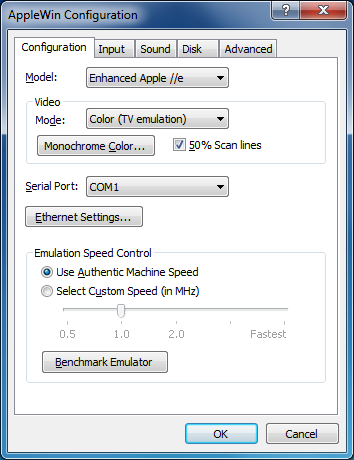
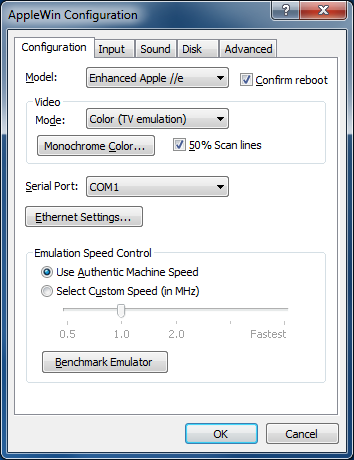
Update help html files for 1.25 release

Changed region(s): [[0.0, 0.2739, 1.0, 1.0], [0.6836, 0.1522, 0.9322, 0.1826]]

diff --git a/help/contact.html b/help/contact.html
@@ -11,21 +11,10 @@
 			<hr SIZE="4">
 		<P></P>
 		<P><br>
-			To contact the&nbsp;project administrators, email:<br>
-			<A href="mailto:tomch@users.berlios.de">Tom Charlesworth</A><br>
-			<A href="mailto:mpohoreski@users.berlios.de">Michael&nbsp;Pohoreski</A><br>
-			<A href="mailto:nick_westgate@users.berlios.de">Nick&nbsp;Westgate</A></P>
+			To contact the project administrators, post a question to the GitHub link below.<br>
 		<br>
-		<P>Bug reports should be submitted here:<br>
-			<A href="https://developer.berlios.de/bugs/?func=addbug&amp;group_id=6117">https://developer.berlios.de/bugs/?func=addbug&amp;group_id=6117</A>
+		<P>Bug reports / feature requests should be submitted here:<br>
+			<A href="https://github.com/AppleWin/AppleWin/issues/new">https://github.com/AppleWin/AppleWin/issues/new</A>
 		</P>
-		<P>Feature requests should be submitted here:<br>
-			<A href="https://developer.berlios.de/feature/?func=addfeature&amp;group_id=6117">https://developer.berlios.de/feature/?func=addfeature&amp;group_id=6117</A>
-		</P>
-		<P>
-			<br>
-			To contact the author of this help file, email:
-			<br>
-			<a href="mailto:brian_broker@yahoo.com">Brian Broker</a></P>
 	</body>
 </html>

diff --git a/help/keyboard.html b/help/keyboard.html
@@ -60,12 +60,14 @@
 			files are named "{DiskFilename}_#.bmp" otherwise they are named "AppleWin_ScreenShot_#.bmp".</p>
 		<p><span style="font-weight: bold;">Shift+PrintScrn:</span><br>
 		    See above.</p>
+		<p><span style="font-weight: bold;">Ctrl+PrintScrn:</span><br>
+		    Copy the text screen (auto detect 40/80 columns) to the clipboard.</p>
 		<p><span style="font-weight: bold;">Function Keys F1-F8:</span><br>
 			These PC function keys correspond to buttons on the <a href="toolbar.html">toolbar</a>.</p>
 		<p><span style="font-weight: bold;">Function Key F2 + Ctrl:</span><br>
 		    This PC function key combo acts like Ctrl+RESET (instead of power-cycle).</p>
 		<p><span style="font-weight: bold;">Function Key F6 + Ctrl:</span><br>
-		    This PC function key combo switches to full screen video mode.</p>
+		    This PC function key combo toggles between 1x and 2x window sizes.</p>
 		<p><span style="font-weight: bold;">Function Key F9:</span><br>
 			This PC function key will cycle through AppleWin's display modes:&nbsp; 
 			monochrome (custom), color (normal), color (text optimized), color (TV 

diff --git a/help/CommandLine.html b/help/CommandLine.html
@@ -26,7 +26,23 @@
 		-use-real-printer<br>
 		Enables Advanced configuration control to allow dumping to a real printer<br><br>
 		-noreg<br>
-		Disable registration of file extensions (.do/.dsk/.nib/.po)<br>
+		Disable registration of file extensions (.do/.dsk/.nib/.po)<br><br>
+		-memclear &lt;n&gt;<br>
+		Where n is [0..7]:
+		<ul>
+			<li>0 Initialize memory to zero</li>
+			<li>1 Initialize memory to random values</li>
+			<li>2 Initialize memory to 4 byte pattern: FF FF 00 00</li>
+			<li>3 Initialize memory to even pages FF, odd pages 00</li>
+			<li>4 Initialize memory to first half page 00, last half page FF</li>
+			<li>5 Initialize memory to first half page FF, last half page 00</li>
+			<li>6 Initialize memory to byte offset of that page
+						(current memory address low byte)
+						i.e. 00:00 01 02 03 ... for page $20</li>
+			<li>7 Initialize memory to page address
+						(current memory address high byte)
+						i.e. 00:20 20 20 20 ... for page $20</li>
+		</ul>
 		<P>&nbsp;</P>
 		<P style="FONT-WEIGHT: bold">Debug arguments:
 		</P>

diff --git a/help/Troubleshooting.html b/help/Troubleshooting.html
@@ -28,15 +28,14 @@
 		</li>
 		</ul>
 
-		Windows 8 related issues.
+		Windows 8/8.1 related issues.
 		<ul>
-		<li>These full-screen issues (CTRL+F6) have been reported under Windows 8:
+		<li>This full-screen issue (F6) have been reported under Windows 8/8.1:
 			<ul>
 			<li>Screen switches to full-screen for a few seconds (showing AppleWin window in top-left) then reverts back to the desktop.</li>
-			<li>Full-screen mode runs with a corrupt pastille palette.</li>
 			</ul>
 		</li>
-		<li>These issues seem to depend on certain graphics adapters. The only workaround is to avoid full-screen mode for now.</li>
+		<li>This issue seem to depend on certain graphics adapters. The only workaround is to avoid full-screen mode for now.</li>
 		</ul>
 	</body>
 </html>

diff --git a/help/toolbar.html b/help/toolbar.html
@@ -47,7 +47,7 @@ Swap the disks in drives 1 and 2.</td>
       <td><img style="width: 46px; height: 46px;" alt="Toggle Window / Fullscreen" src="img/tb-fs.png"></td>
       <td><strong>F6 --
 Window Size/Full Screen:</strong><br>
-Toggle between windowed 1x and 2x video modes. (Use Ctrl+F6 to switch to full screen video mode.)</td>
+Toggle between windowed and full screen video modes. (Use Ctrl+F6 to toggle between 1x and 2x window sizes.)</td>
     </tr>
     <tr>
       <td><img style="width: 46px; height: 46px;" alt="Debug" src="img/tb-dbg.png"></td>

diff --git a/help/cfg-config.html b/help/cfg-config.html
@@ -79,6 +79,9 @@
 			processor from the system) or you can underclock or overclock the emulated 
 			processor speed from half-speed to as fast as your PC can emulate.<br>
 			<br>
+			<strong>Confirm reboot:</strong><br>
+			Show "Confirm reboot" message box when F2 is pressed.<br>
+			<br>
 			<strong>Benchmark Emulator:</strong><br>
 			This will run a benchmark test that will show how fast your PC can emulate an 
 			Apple //e system with this emulator. &nbsp;In order to run the benchmark, the 

diff --git a/help/acknowledgements.html b/help/acknowledgements.html
@@ -9,6 +9,7 @@
 		<h2 style="COLOR: rgb(0,128,0)">Acknowledgements</h2>
 		<hr size="4">
 		<p>The team&nbsp;would like to thank the following people for their contributions:</p>
+		<p style="MARGIN-LEFT: 40px">Brian Broker: This HTML / CHM help file</p>
 		<p style="MARGIN-LEFT: 40px">Thomas Stahl: TV emulation mode</p>
 		<p style="MARGIN-LEFT: 40px">Chris Foxwell: SSI263 phoneme samples</p>
 		<p style="MARGIN-LEFT: 40px">Robert Hoem: Harddisk card (source module &amp; f/w)</p>
